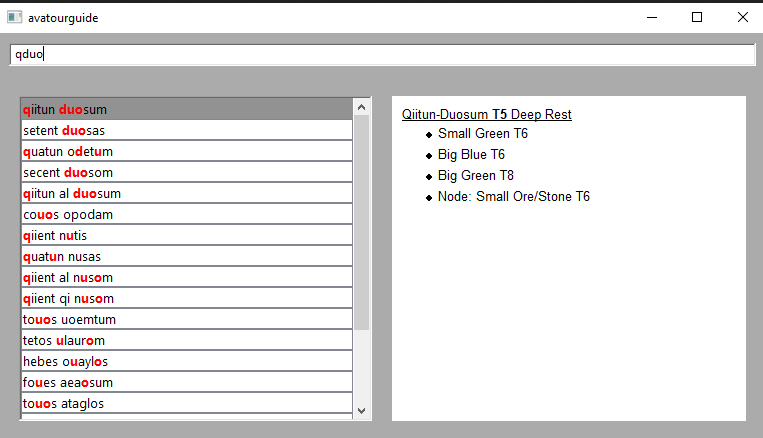
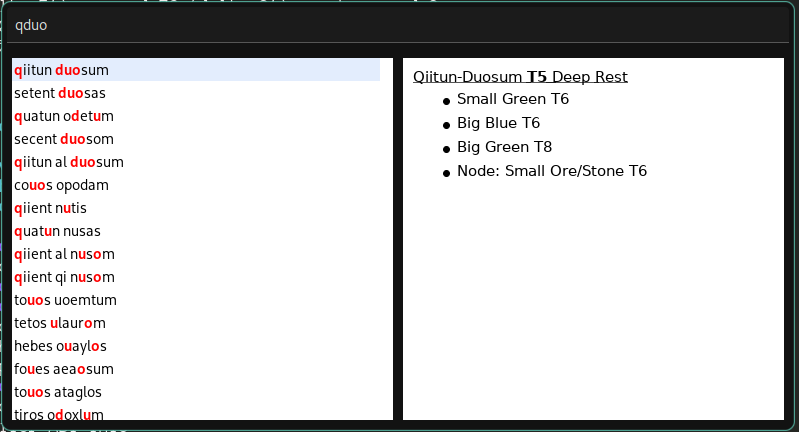
added/updated screenshots and readme

diff --git a/README.md b/README.md
@@ -2,5 +2,20 @@
 Albion online avalonian road maps info  
 
 
+**GNU/Linux**
+
 ![Screenshot](screenshot.png)
 
+Build from source:
+- make sure build essential, wxwidgets and cmake are installed
+- `git clone https://github.com/obxd/avatourguide.git`
+- `cd avatourguide/src`
+- `cmake .`
+- `make`
+
+
+**Windows**
+
+![Screenshot2](screenshot2.png)
+
+Build from source or get the executable from [releases](https://github.com/obxd/avatourguide/releases)
